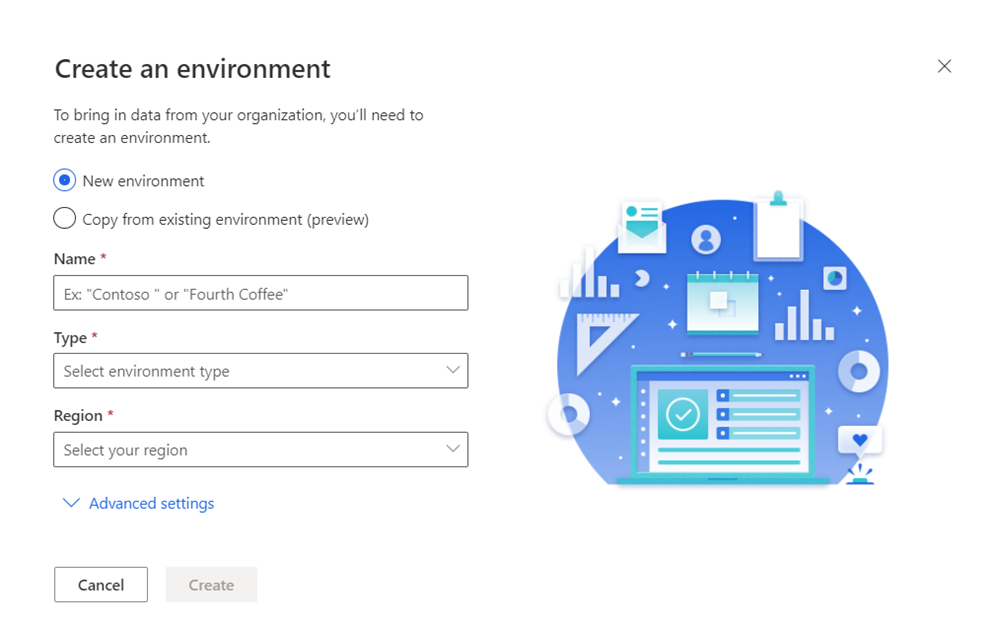
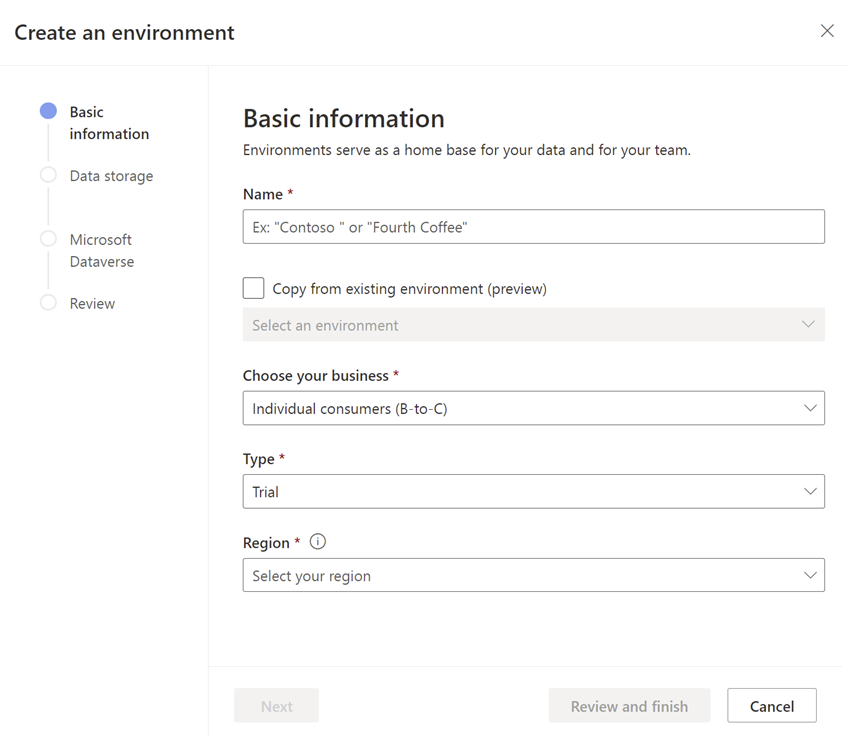
update image

diff --git a/ci-docs/audience-insights/get-started-paid.md b/ci-docs/audience-insights/get-started-paid.md
@@ -41,9 +41,10 @@ In the **Basic information** step, choose whether you want to create an environm
 
 Provide the following details:
    - **Name**: The name for this environment. This field is already filled in if you've copied an existing environment, but you can change it.
-   - **Region**: The region into which the service is deployed and hosted.
+   - **Choose you business**: Choose the primary audience for the new environment. You can work with individual customers (B2C) or [business accounts](work-with-business-accounts.md) (B2B).
    - **Type**: Select whether you want to create a production or sandbox environment. Sandbox environments don't allow scheduled data refresh and are intended for pre-implementation and testing. Sandbox environments use the same primary audience as the production environment that's currently selected.
-   - Choose the primary audience for the new environment. You can work with individual customers (B2C) or [business accounts](work-with-business-accounts.md) (B2B).
+   - **Region**: The region into which the service is deployed and hosted.
+
 
 ### Step 2: Configure data storage
 
@@ -63,7 +64,7 @@ For the Azure Data Lake Storage option, you can choose between a resource-based 
 
 When system processes such as data ingestion is complete, the system creates corresponding folders in the storage account you specified. Data files and *model.json* files are created and added to folders based on the process name.
 
-If you create multiple environments of Customer Insights and choose to save the output entities from those environments to your storage account, Customer Insights creates separate folders for each environment with `ci_<environmentid>` in the container.
+If you create multiple environments of Customer Insights and choose to save the output entities from those environments to your storage account, Customer Insights creates separate folders for each environment with `ci_environmentID` in the container.
 
 ### Step 3: Connect to Microsoft Dataverse
    

diff --git a/ci-docs/paid-license.md b/ci-docs/paid-license.md
@@ -30,7 +30,7 @@ The first-run experience helps you choose you initial focus with Customer Insigh
 
 1. Go to the [Customer Insights app URL](https://home.ci.ai.dynamics.com).
 1. Sign in with your school or work account. 
-1. Select the region for your Customer Insights instance.
+1. Agree to the terms of service and set the content preferences for your Customer Insights instance.
 1. Choose the capability to focus on until you get to the start page for your selected capability.
 
 ## Create your own environment
